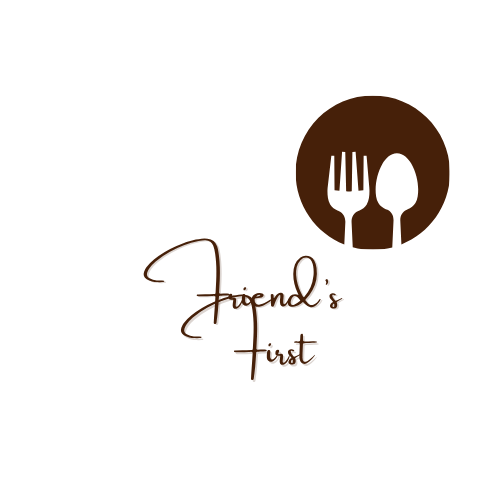
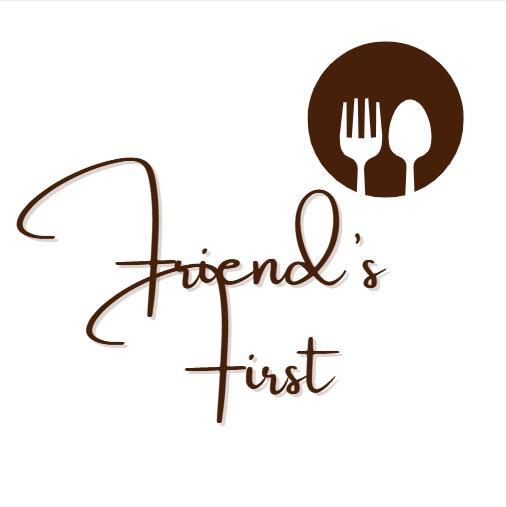
cta home changed

Changed region(s): [[0.03, 0.06, 0.93, 0.84]]

diff --git a/client/src/pages/Home.module.css b/client/src/pages/Home.module.css
@@ -247,7 +247,7 @@
   border-radius: 14px;
   border:1px solid var(--border);
   color: var(--accent);
-  box-shadow: 0 10px 22px rgba(4, 73, 211, 0.22);
+ 
 }
 .ctaTitle {
   font-weight: 800;
@@ -284,6 +284,13 @@
   flex-direction: column;
   align-items: center;
 
+}
+
+.ctaImage {
+  width: 100%;
+  height: 100%;
+  object-fit: cover;
+  display: block;
 }
 
 /* TABLET 768px */
@@ -340,6 +347,12 @@
     white-space: nowrap;
     margin-top: 25px;
   }
+  .ctaImageWrap{
+  border: 1px solid var(--border);
+  border-radius: 14px;
+  overflow: hidden;
+ 
+}
 }
 
 /* DESKTOP 1020px */
@@ -357,7 +370,7 @@
 
   /* CTA Desktop */
   .cta {
-    max-width: 1100px;
+    max-width: 1030px;
     padding: 22px 32px;
     border-radius: 18px;
   }

diff --git a/client/src/pages/Home.jsx b/client/src/pages/Home.jsx
@@ -97,7 +97,7 @@ export default function Home() {
       <section aria-label="Reservation call">
         <div className={s.cta}>
           <div className={s.ctaImageWrap}>
-            <img src={her} className={s.chefImg} alt="dining" />
+            <img src={her} className={s.chefImg} alt="logo" />
           </div>
           <div className={s.ctaTextWrap}>
             <h2 className={s.ctaTitle}>{t("home.cta_title")}</h2>
